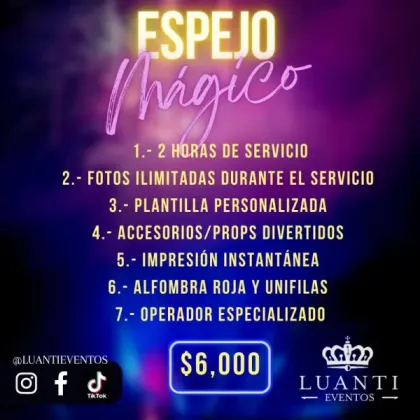
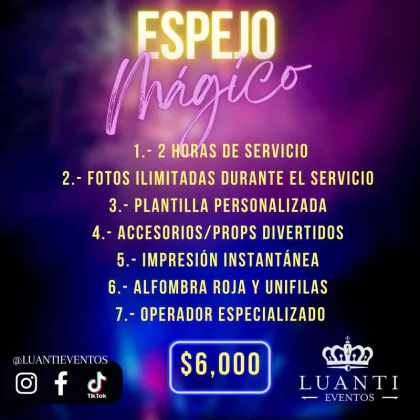
Ajustar tamaños de imágenes para LCP

diff --git a/components/home/services-preview.tsx b/components/home/services-preview.tsx
@@ -9,19 +9,19 @@ import Link from "next/link"
 
 const serviceImages = [
   {
-    src: "/services/espejo-magico-info-520.webp",
+    src: "/services/espejo-magico-info-420.webp",
     alt: "Espejo Mágico - $6,000 MXN",
     name: "Espejo Mágico",
     slug: "espejo-magico",
   },
   {
-    src: "/services/cabina-360-info-520.webp",
+    src: "/services/cabina-360-info-420.webp",
     alt: "Cabina 360 - $6,000 MXN",
     name: "Cabina 360",
     slug: "cabina-360",
   },
   {
-    src: "/services/telefono-dedicatorias-info-520.webp",
+    src: "/services/telefono-dedicatorias-info-420.webp",
     alt: "Teléfono de Dedicatorias - $5,000 MXN",
     name: "Teléfono de Dedicatorias",
     slug: "telefono-dedicatorias",

diff --git a/components/home/packages-preview.tsx b/components/home/packages-preview.tsx
@@ -9,13 +9,13 @@ import Image from "next/image"
 
 const comboImages = [
   {
-    src: "/packages/combo-espejo-cabina-640.webp",
+    src: "/packages/combo-espejo-cabina-480.webp",
     alt: "Paquete Espejo Mágico + Cabina 360 - $10,000 MXN",
     name: "Espejo Mágico + Cabina 360",
     price: "$10,000 MXN",
   },
   {
-    src: "/packages/combo-espejo-telefono-640.webp",
+    src: "/packages/combo-espejo-telefono-480.webp",
     alt: "Paquete Espejo Mágico + Teléfono de Dedicatorias - $9,000 MXN",
     name: "Espejo Mágico + Teléfono de Dedicatorias",
     price: "$9,000 MXN",

diff --git a/components/home/hero-section.tsx b/components/home/hero-section.tsx
@@ -71,7 +71,7 @@ export function HeroSection() {
           <div className="relative">
             <div className="relative aspect-[4/3] rounded-2xl overflow-hidden border border-border shadow-2xl shadow-primary/10">
               <Image
-                src="/images/hero-espejo-magico-720.webp"
+                src="/images/hero-espejo-magico-560.webp"
                 alt="Espejo Mágico en evento"
                 fill
                 className="object-cover object-center-top"
